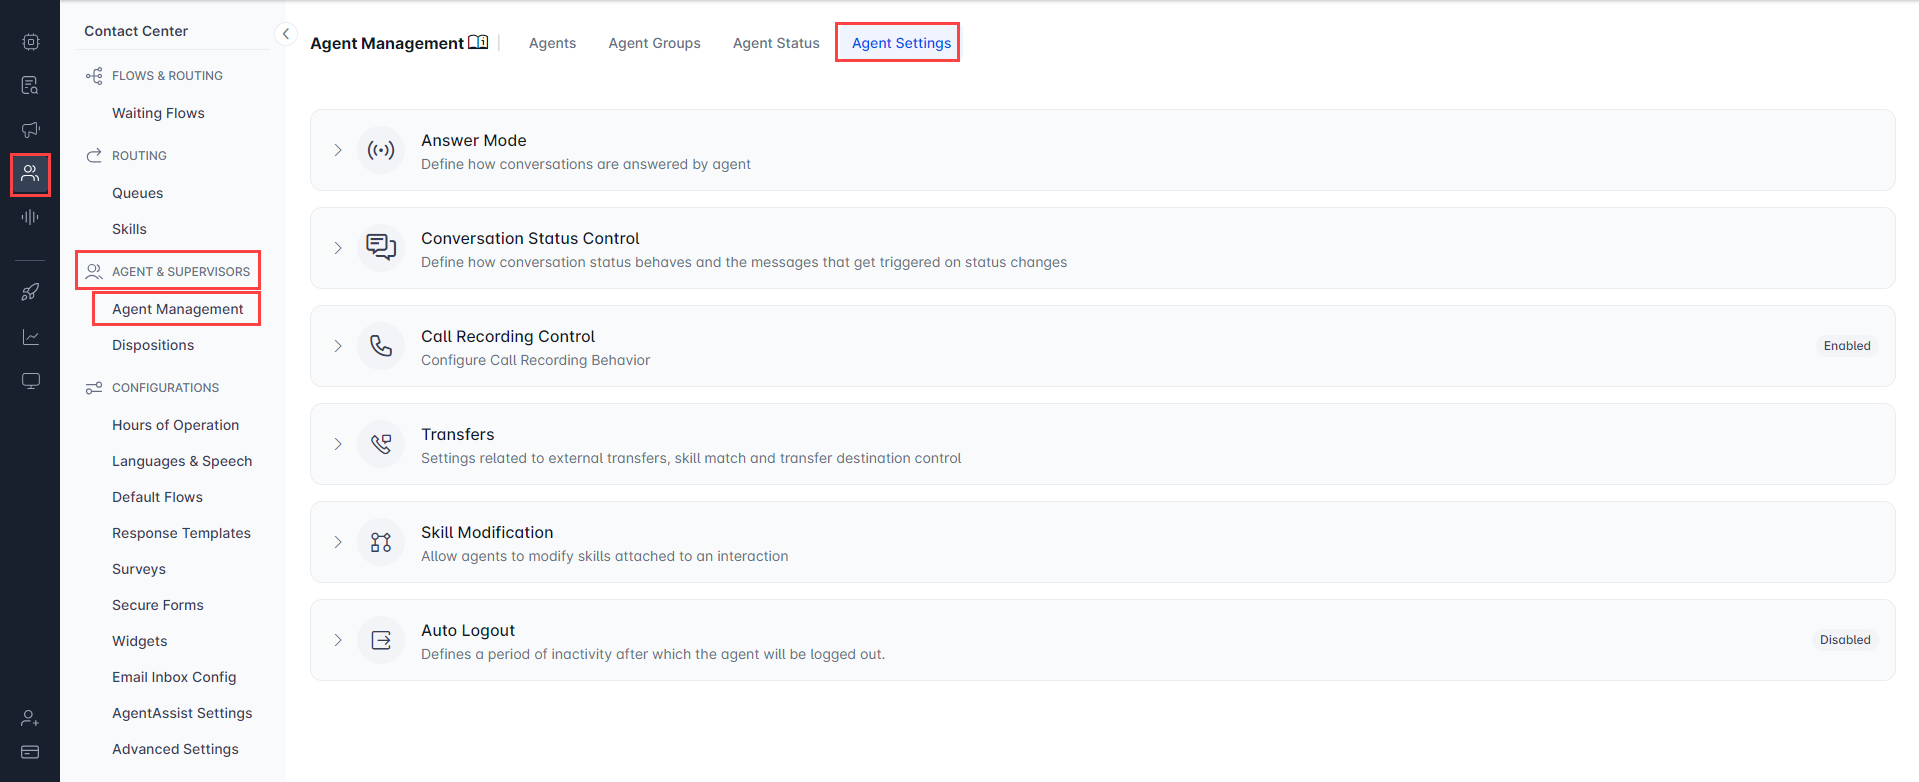
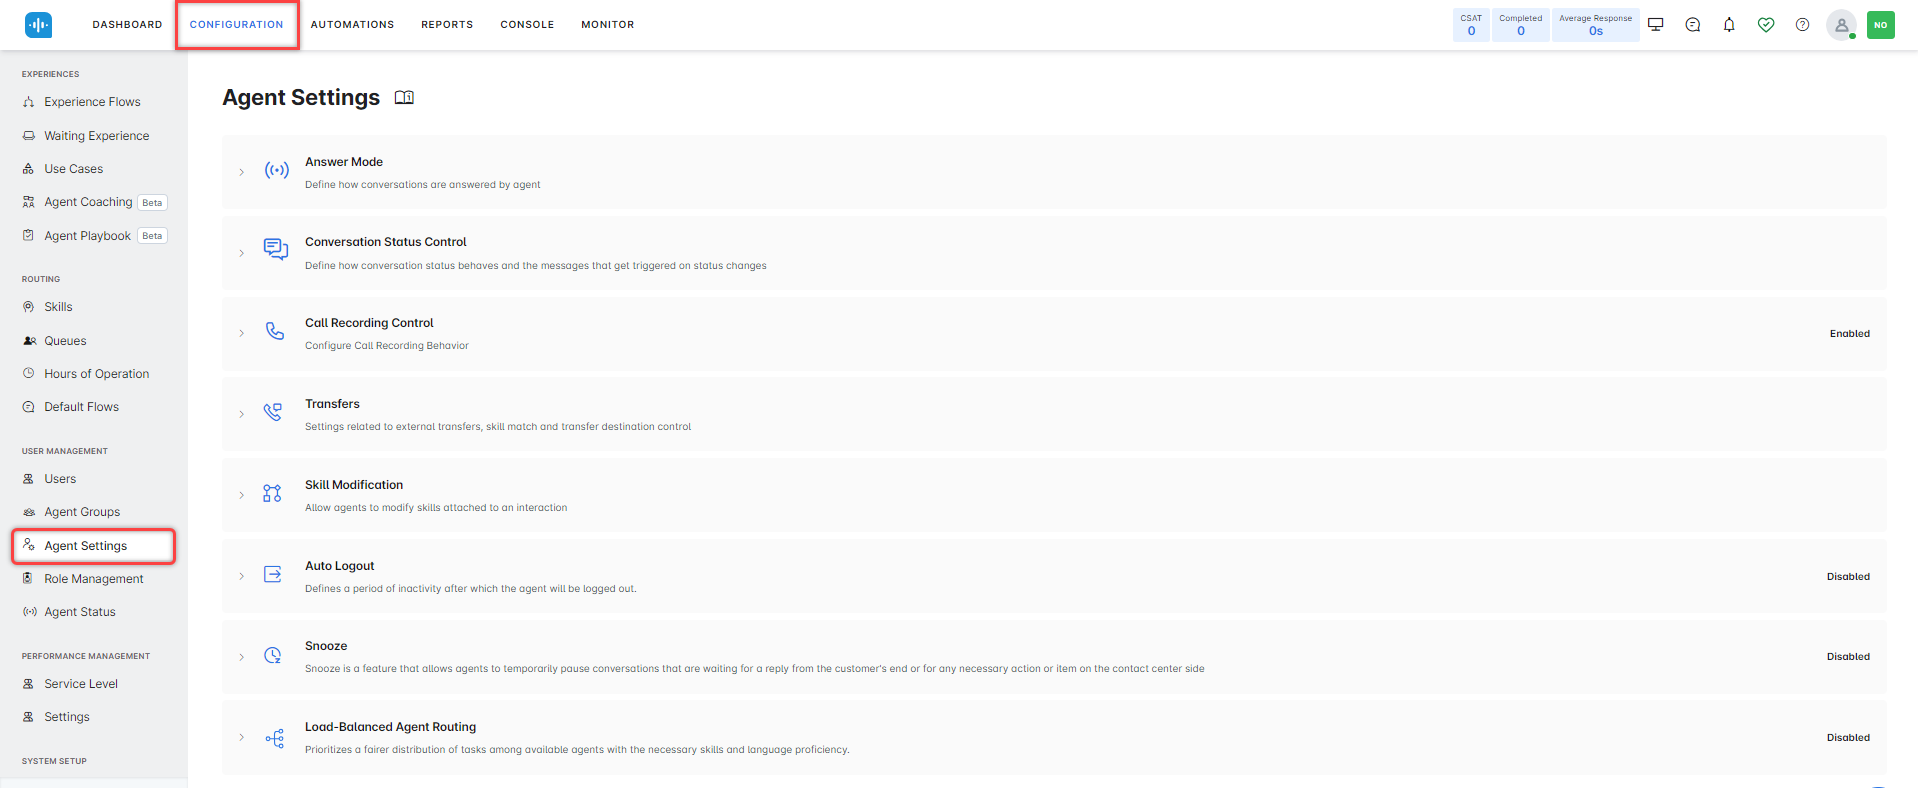
release notes links updated

diff --git a/docs/xo/contactcenter/agent-and-supervisors/agent-management/agent-management.md b/docs/xo/contactcenter/agent-and-supervisors/agent-management/agent-management.md
@@ -66,7 +66,7 @@ To delete an agent group, follow these steps:
 2. In the **Edit Group** window, click the **Delete Agent Group** icon at the bottom left.
 <img src="../images/delete-button.png" alt="Delete an Agent Group" title="Delete an Agent Group" style="border: 1px solid gray; zoom:80%;">
 
-## **Agent Status Management**
+## Agent Status Management
 
 This feature lets you display various statuses of an Agent – such as available, offline, busy, or away – along with a brief description for each status. You can add new statuses and edit or delete the existing ones.
 
@@ -158,11 +158,11 @@ A confirmation message is displayed.
 <img src="../images/login-prep-enabled.png" alt="Login Prep Enabled" title="Login Prep Enabled" style="border: 1px solid gray; zoom:100%;">  
 Once enabled, the Login Prep becomes the default status for every new login for the agent. [Learn more](../../../console/interacting-with-customers/interacting-with-customers.md#behavior-when-login-prep-status-is-enabled).
 
-## **Agent Settings**
+## Agent Settings
 
 Agent Settings let you configure the settings that apply to all agents across Contact Center.
 
-Go to **Contact Center > AGENT & SUPERVISORS > Agent Management > Agent Settings** to view and edit the following:
+Go to **Contact Center AI** > **AGENT & SUPERVISORS** > **Agent Management** > **Agent Settings** to view and edit the following:
 
 1. **Answer Mode**: These settings let you define how conversations get answered on each channel (Digital – Chats, and Emails, as well as Voice).
 2. **Conversation Status Control**: These options let you define how conversation status behaves and the messages triggered by status changes.
@@ -171,8 +171,12 @@ Go to **Contact Center > AGENT & SUPERVISORS > Agent Management > Agent Settings
 5. **Skill Modification**: You can decide if the agents can modify skills attached to a conversation.
 6. **Auto Logout**: Administrators can configure this setting to specify a period of inactivity that automatically logs out agents.
 
-These settings are grouped and presented as closed groups when first opening the Settings screen. Click any group to view its corresponding options. 
-<img src="../images/agent-settings-page.png" alt="Agent Settings Page" title="Agent Settings Page" style="border: 1px solid gray; zoom:80%;">
+7. **Snooze**: This setting allows agents to temporarily pause conversations that are waiting for a reply from the customer’s end or any necessary action or item on the agent’s side.
+
+8. **Load Balanced Agent Routing**: This setting ensures a fair distribution of tasks among available agents with the necessary skills and language proficiency.
+
+These settings are grouped and presented as closed groups when first opening the Settings screen. Click any group to view its corresponding options.  
+<img src="../images/agent-settings-page.png" alt="Agent Settings Page" title="Agent Settings Page" style="border: 1px solid gray; zoom:70%;">
 
 ## Answer Mode
 
@@ -341,3 +345,8 @@ This feature allows agents to temporarily pause conversations that are awaiting 
 
 By default, the snooze functionality is disabled. Administrators can turn on the **Snooze** toggle to enable the functionality.  
 <img src="../images/enable-snooze.png" alt="Enable Snooze" title="Enable Snooze" style="border: 1px solid gray; zoom:80%;">
+
+## Load-Balanced Agent Routing
+
+By default, the load-balanced agent routing functionality is disabled. Administrators can turn on the toggle to enable the functionality allowing the distribution of tasks more evenly and reducing the chances of agent overload, leading to better focus and potentially faster task completion times, decreasing wait times for tasks. and improve overall system performance.  
+<img src="../images/load-balanced-agent-routing.png" alt="Load-Balanced Agent Routing" title="Load-Balanced Agent Routing" style="border: 1px solid gray; zoom:80%;">

diff --git a/docs/xo/release-notes/11.x/contact-center-ai.md b/docs/xo/release-notes/11.x/contact-center-ai.md
@@ -13,7 +13,7 @@ Key features and enhancements included in this release are summarized below.
 #### Improved Arrival Summary Placement
 
 When an agent accepts a conversation, the system now automatically generates an arrival summary and inserts it at the bottom of the Bot-User transcript. It helps agents quickly grasp the context of each interaction, thus improving their ability to assist users effectively.
-A loading indicator is displayed for summaries that take time to generate. Additionally, a refresh button is available to retrieve any missing bot/user conversation data, ensuring agents have complete information. After an agent transfer, Agent 2 will see the entire summary of the prior conversation, displayed immediately after the last message from Agent 1.
+A loading indicator is displayed for summaries that take time to generate. Additionally, a refresh button is available to retrieve any missing bot/user conversation data, ensuring agents have complete information. After an agent transfer, Agent 2 will see the entire summary of the prior conversation, displayed immediately after the last message from Agent 1. [Learn more :octicons-arrow-right-24:](../../console/interacting-with-customers.md#arrival-summary).
 
 ### Configuration
 
@@ -29,7 +29,7 @@ Contact Center AI now offers Load-Balanced Agent Routing, an administrator-enabl
 
 * Skill-based allocation: Load balancing occurs within the pool of qualified agents, maintaining service quality.
 
-**Key benefits**:
+**Key benefits**:  
 
 * Reduced wait times for tasks.  
 
@@ -38,6 +38,8 @@ Contact Center AI now offers Load-Balanced Agent Routing, an administrator-enabl
 * Balanced workload across qualified agents.
 
 * Maintained service quality through skill-based assignments.
+
+[Learn more :octicons-arrow-right-24:](../../contactcenter/agent-and-supervisors/agent-management/agent-management.md#load-balanced-agent-routing).
 
 #### Phone Number Label Display Enhancement
 

diff --git a/docs/xo/console/interacting-with-customers.md b/docs/xo/console/interacting-with-customers.md
@@ -671,8 +671,15 @@ This section displays the live interaction summary with the following details:
 * **Queue**: Indicates the queue in which the conversation is placed.
 * **Wait Time**: This shows the time that the chat has been waiting for an agent to respond.
 * **Intent**: Shows the customer’s primary purpose for initiating the live interaction.
-* **Avg. Sentiment**: Captures the customer sentiments based on their responses.
-<img src="../images/arrival-summary.png" alt="Arrival Summary" title="Arrival Summary" style="border: 1px solid gray; zoom:80%;">
+* **Sentiment**: Captures the customer sentiments based on their responses.
+<img src="../images/arrival-summary.png" alt="Arrival Summary" title="Arrival Summary" style="border: 1px solid gray; zoom:70%;">
+
+After accepting the conversation, all interactions by the agent are displayed below the arrival summary. If generating the arrival summary takes time, a loading indicator appears until the summary is ready. After an agent transfer, Agent 2 will see the entire summary of the prior conversation, displayed immediately after the last message from Agent 1.
+
+### Refreshing Bot-Customer Interactions
+
+A reload button appears at the top of the conversation transcript when the bot-customer conversation transcript is missing. Clicking Reload displays the missing information.  
+<img src="../images/reload-button.png" alt="Arrival Summary" title="Arrival Summary" style="border: 1px solid gray; zoom:60%;">
 
 ## Typing Chat Indicator
 
